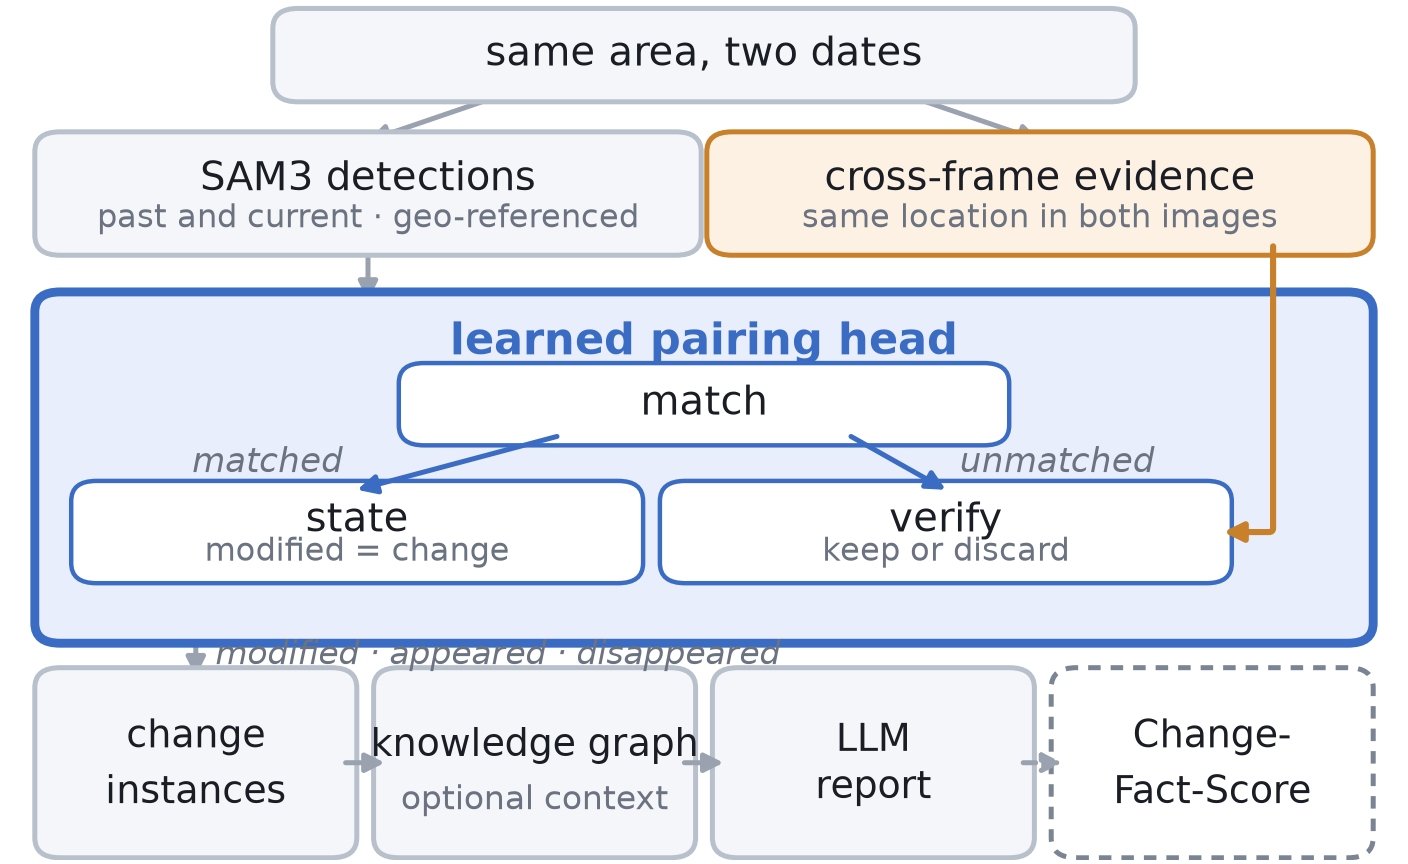
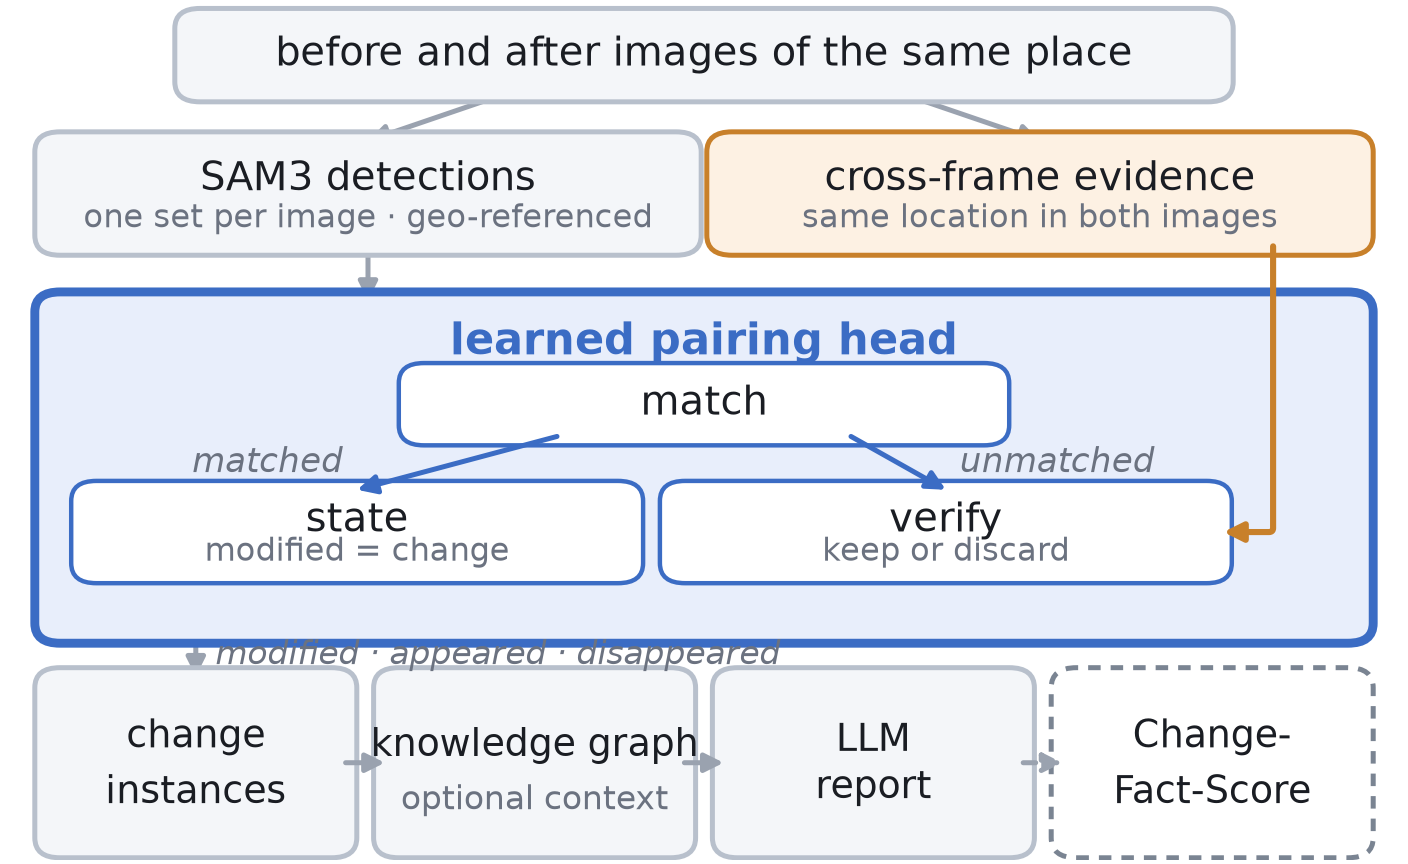
Name the figure's inputs the way a subscriber would
"same area, two dates" was plainer than the jargon it replaced but still asked
the reader to assemble the idea. The box now says "before and after images of
the same place", which is how the paper's own framing describes the product and
how anyone would describe the task without being taught the vocabulary.

The detections box said "past and current", giving the figure two vocabularies
for one distinction. It now says "one set per image", which states the
structure that mattered -- there are two detection sets to match -- without
naming the frames a second time.

Six pages, no undefined references, no overfull boxes, 22 tests passing.

Changed region(s): [[0.125, 0.0, 0.875, 0.125], [0.0625, 0.2188, 0.4688, 0.2812]]

diff --git a/scripts/gen_paper_figure.py b/scripts/gen_paper_figure.py
@@ -109,14 +109,14 @@ def build() -> None:
 
     # ---- input ------------------------------------------------------------
     y_in, h_in = 0.895, 0.068
-    box(ax, 0.20, y_in, 0.60, h_in,
-        "same area, two dates", fs=7.2)
+    box(ax, 0.13, y_in, 0.74, h_in,
+        "before and after images of the same place", fs=7.2)
 
     # ---- detections and cross-frame evidence ------------------------------
     y_f, h_f = 0.757, 0.095
     lw_ = 0.46
     box(ax, L, y_f, lw_, h_f, "SAM3 detections",
-        sub="past and current · geo-referenced", fs=7.2)
+        sub="one set per image · geo-referenced", fs=7.2)
     box(ax, R - lw_, y_f, lw_, h_f, "cross-frame evidence",
         sub="same location in both images", fill=FILL_EVID, edge=EDGE_EVID,
         fs=7.2)
